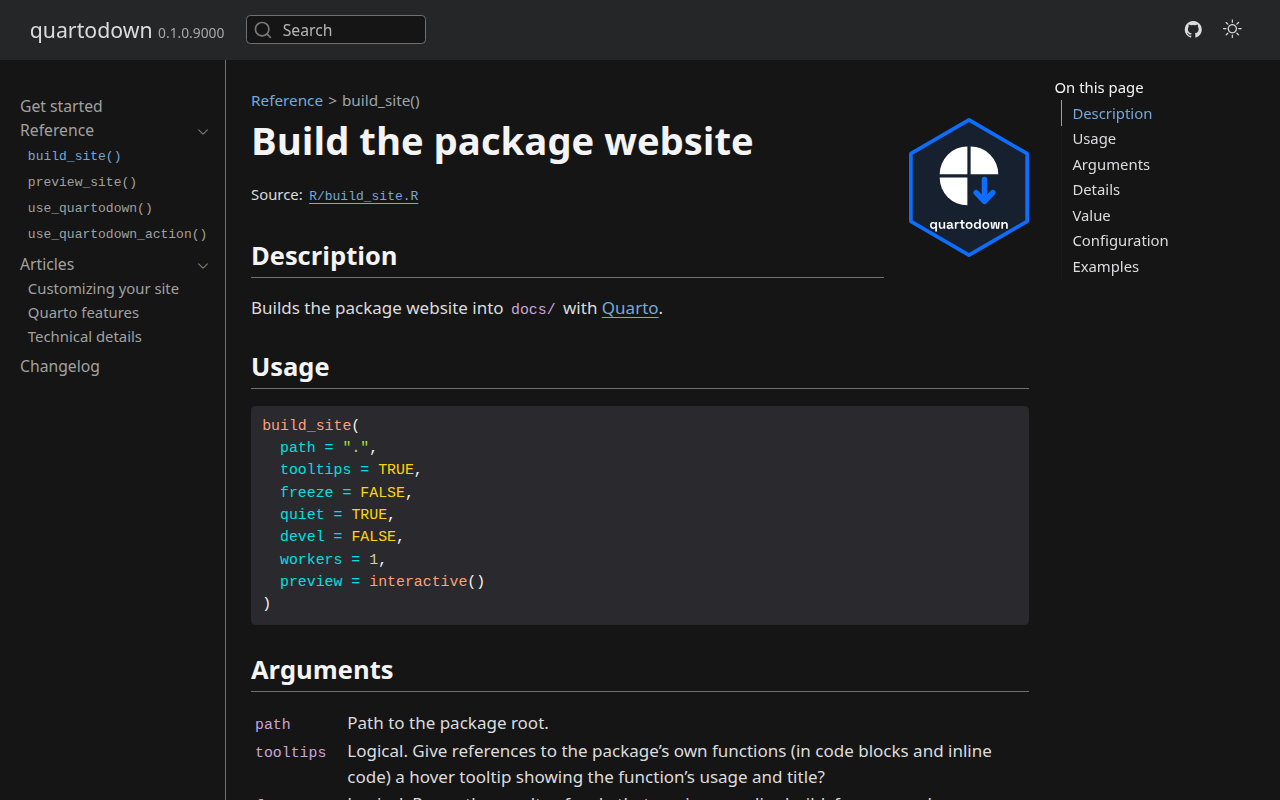
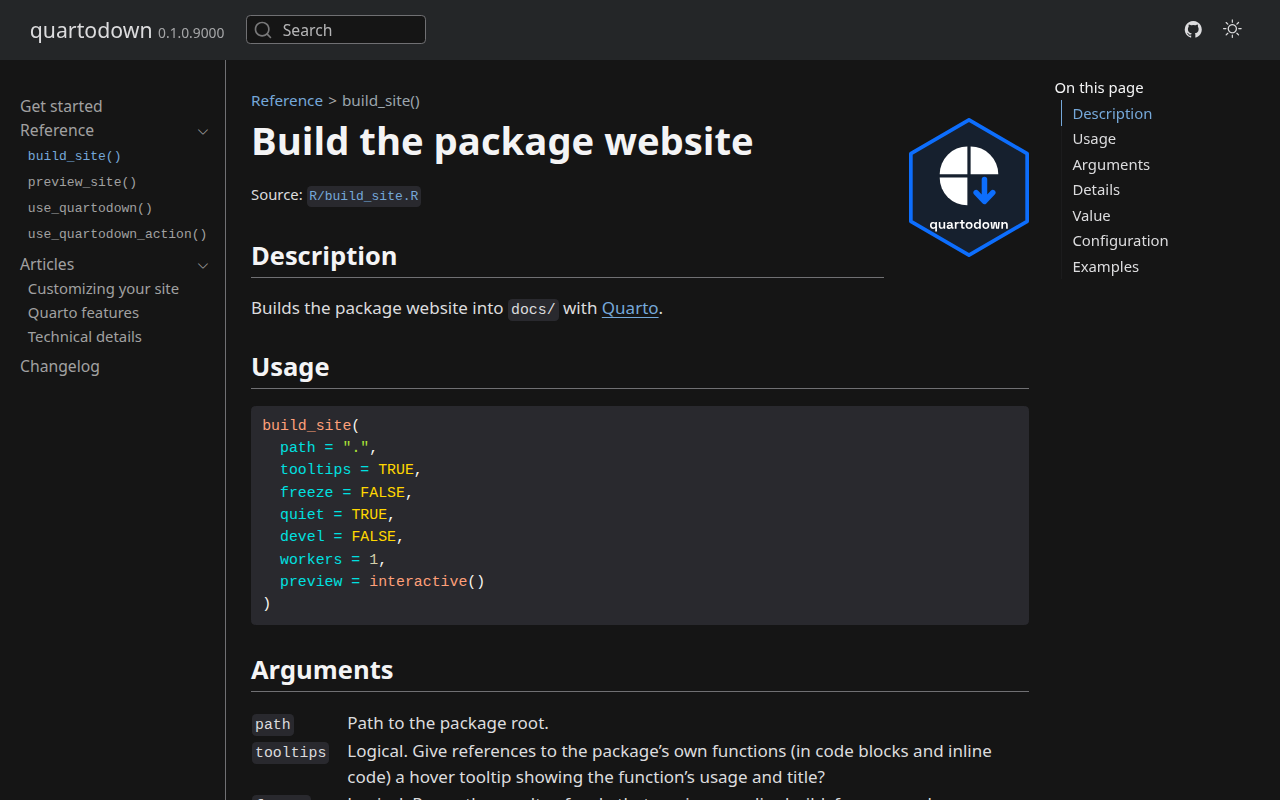
Improve look of in-line code blocks

Changed region(s): [[0.1875, 0.875, 0.2812, 1.0], [0.2188, 0.2188, 0.3438, 0.2812], [0.375, 0.375, 0.4375, 0.4062]]

diff --git a/inst/quarto/quartodown.scss b/inst/quarto/quartodown.scss
@@ -1,6 +1,20 @@
 /*-- scss:rules --*/
 // Styled after pkgdown's BS5/assets/pkgdown.scss, adapted to Quarto's DOM.
 
+// Inline code in the text color, like the plain tokens of code blocks; its
+// background marks it as code. Quarto's default is purple (#7d12ba, or the
+// dark theme's `$pre-color: inherit`); a `$code-color` set by a Bootswatch
+// theme or extra.scss is kept.
+$quartodown-code-color: if(
+  type-of($code-color) == color and $code-color != #7d12ba,
+  $code-color,
+  $body-color
+);
+
+:root {
+  --bs-code-color: #{$quartodown-code-color};
+}
+
 /* navbar ==================================================================== */
 
 // Quarto always puts `data-bs-theme="dark"` on `<nav>`, so it gets
@@ -27,7 +41,7 @@ $quartodown-navbar-bg: mix(mix($body-bg, $primary, 95%), $body-color, 95%);
   --bs-navbar-toggler-border-color: #{rgba($body-color, 0.15)} !important;
   --bs-navbar-toggler-icon-bg: #{$quartodown-navbar-toggler-icon-bg} !important;
   // Else the dark `white`: invisible code in navbar items and dropdowns.
-  --bs-code-color: #{$code-color} !important;
+  --bs-code-color: #{$quartodown-code-color} !important;
 }
 
 // Bootstrap also sets this on the icon itself, which beats the inherited value.
@@ -370,17 +384,43 @@ pre code {
 
 // Bootstrap's inline code background is a light literal in both compiles
 // (the dark `--bs-*` values need `[data-bs-theme=dark]`, which only `<nav>`
-// has), giving light text on a light box in dark mode. Derive it per theme.
-code {
+// has), giving light text on a light box in dark mode. Use the code blocks'.
+// Quarto's `p code:not(.sourceCode)` rules use the code blocks' color only
+// while `$code-bg` is Bootstrap's default, so override them too.
+code,
+p code:not(.sourceCode),
+li code:not(.sourceCode),
+td code:not(.sourceCode) {
   overflow-wrap: break-word;
-  background-color: mix($body-bg, $body-color, 92%);
+  background-color: $code-block-bg-color;
+}
+
+// Quarto's `code a:any-link` gives links in code the code's color, which in
+// inline code (in the text color) hides them. Color them as links; in code
+// blocks they keep the highlighting's colors.
+:not(pre) > code a:any-link {
+  color: var(--bs-link-color);
+}
+
+:not(pre) > code a:hover {
+  color: var(--bs-link-hover-color);
+}
+
+// Links around code (e.g. a page's `Source:` file) look the same as those
+// in it: no underline until hovered.
+a:has(> code:only-child) {
+  text-decoration: none;
+
+  &:hover {
+    text-decoration: underline;
+  }
 }
 
 // Plain `<pre><code>` (Rd verbatim blocks, code output) loses its background
 // to Quarto's `pre code:not(.sourceCode)` rule. Color the `<pre>` so the
 // background covers its padding.
 pre:has(> code:not(.sourceCode)) {
-  background-color: mix($body-bg, $body-color, 92%);
+  background-color: $code-block-bg-color;
 }
 
 pre > code:not(.sourceCode) {

diff --git a/inst/quarto/quartodown-dark.scss b/inst/quarto/quartodown-dark.scss
@@ -38,7 +38,6 @@ $border-color: $gray-400;
 // Bootstrap's defaults are meant for a light page.
 $pre-color: inherit;
 $code-bg: $body-bg;
-$code-color: #c9a6dc;
 $code-block-bg: #29292e;
 
 $footer-bg: $body-bg;
